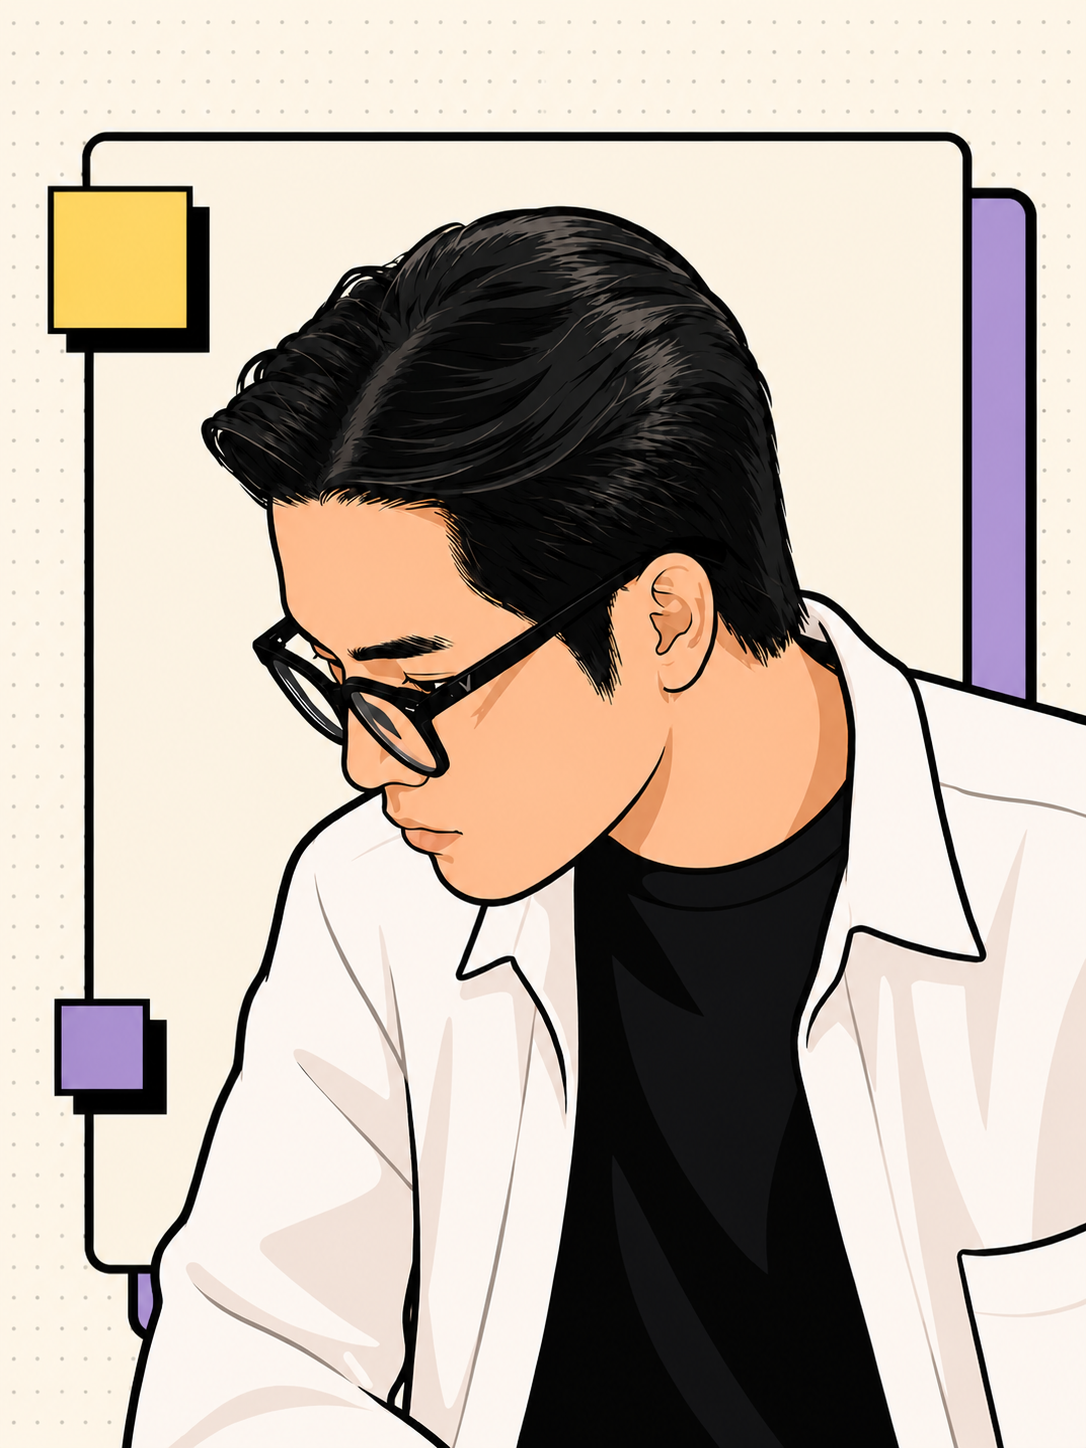
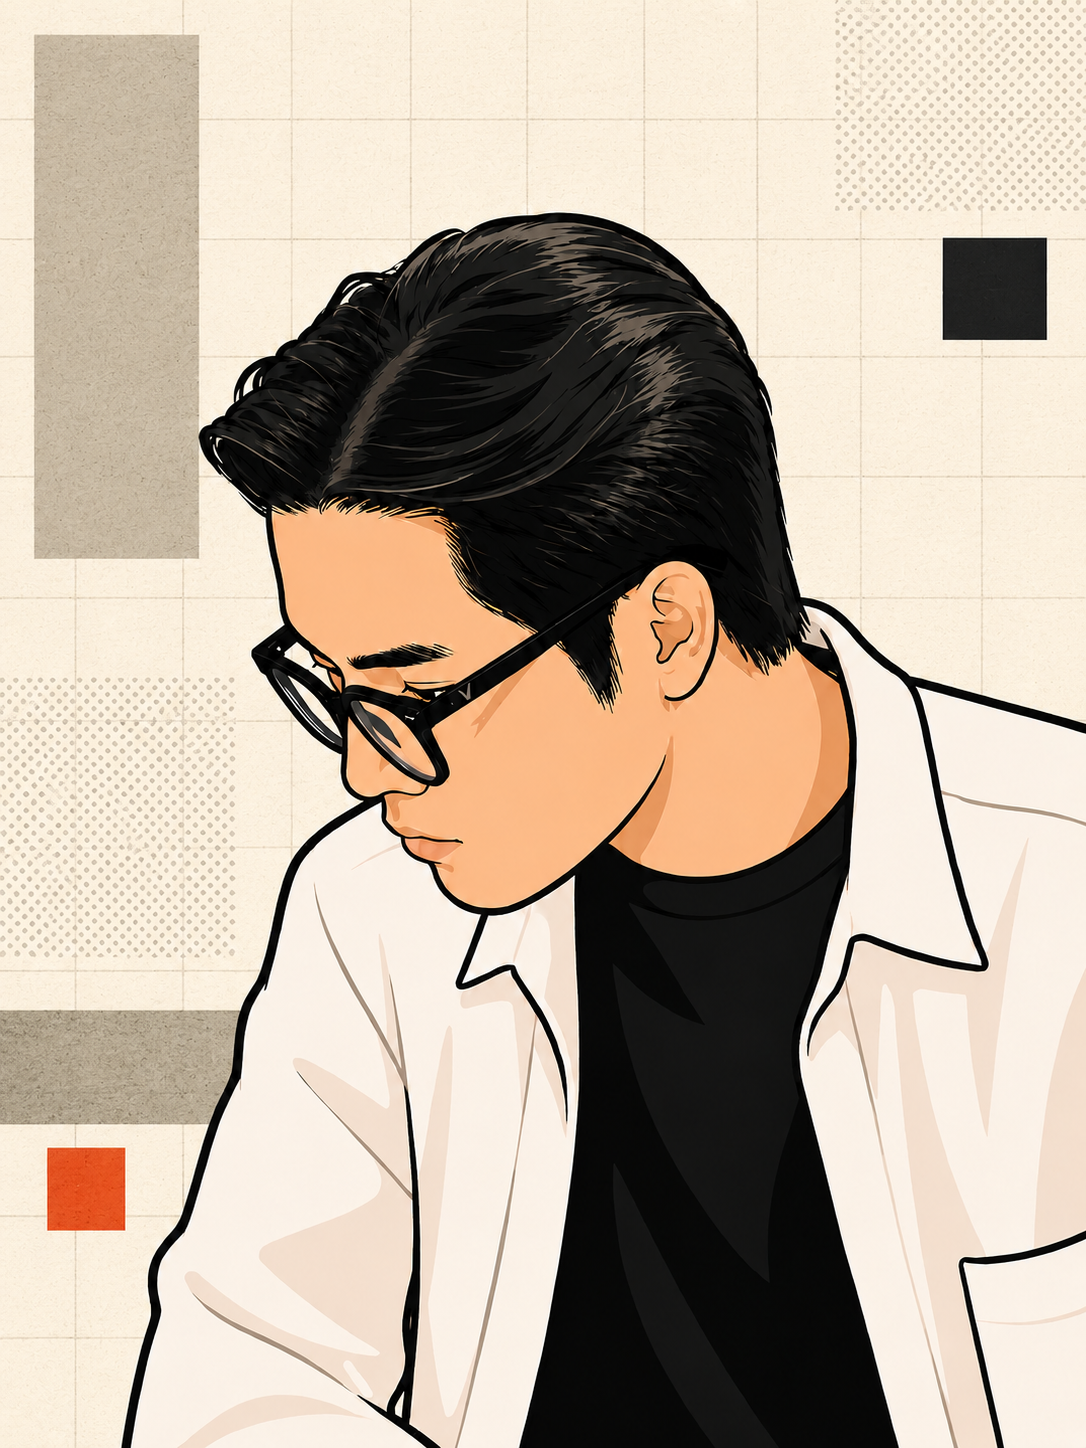
feat: swap labels for Open to Work Card and Podcast Card in navigation and update styles for improved visual consistency

diff --git a/apps/docs/src/app/pages/recipes/open-to-work-card/open-to-work-card.ts b/apps/docs/src/app/pages/recipes/open-to-work-card/open-to-work-card.ts
@@ -62,7 +62,7 @@ interface OtwLink {
         border="strong"
         shadow="hard"
         radius="xl"
-        class="relative w-full max-w-215 [--nb-surface-bg:#fff6e8]"
+        class="relative w-full max-w-215 [--nb-surface-bg:#fff3e0]"
       >
         <!-- Decorative star sticker overflowing the top-right corner -->
         <nb-sticker
@@ -70,7 +70,7 @@ interface OtwLink {
           tone="pink"
           decorative
           [rotate]="10"
-          class="absolute -top-7 -right-4 z-20 sm:-top-9 sm:-right-7"
+          class="absolute -top-10 right-1.25 z-20"
         >
           <nb-sticker-face />
         </nb-sticker>
@@ -89,7 +89,7 @@ interface OtwLink {
             ratio="3/4"
             tone="pink"
             border="strong"
-            radius="none"
+            radius="lg"
             shadow="none"
           >
             <img

diff --git a/apps/docs/src/app/docs/docs.navigation.ts b/apps/docs/src/app/docs/docs.navigation.ts
@@ -53,8 +53,8 @@ export const docsNavGroups: readonly DocsNavGroup[] = [
         ],
       },
       {
-        label: 'Podcast Card',
-        path: '/recipes/podcast-card',
+        label: 'Open to Work Card',
+        path: '/recipes/open-to-work-card',
         toc: [
           { label: 'Overview', fragment: 'overview' },
           { label: 'Preview', fragment: 'preview' },
@@ -63,8 +63,8 @@ export const docsNavGroups: readonly DocsNavGroup[] = [
         ],
       },
       {
-        label: 'Open to Work Card',
-        path: '/recipes/open-to-work-card',
+        label: 'Podcast Card',
+        path: '/recipes/podcast-card',
         toc: [
           { label: 'Overview', fragment: 'overview' },
           { label: 'Preview', fragment: 'preview' },
